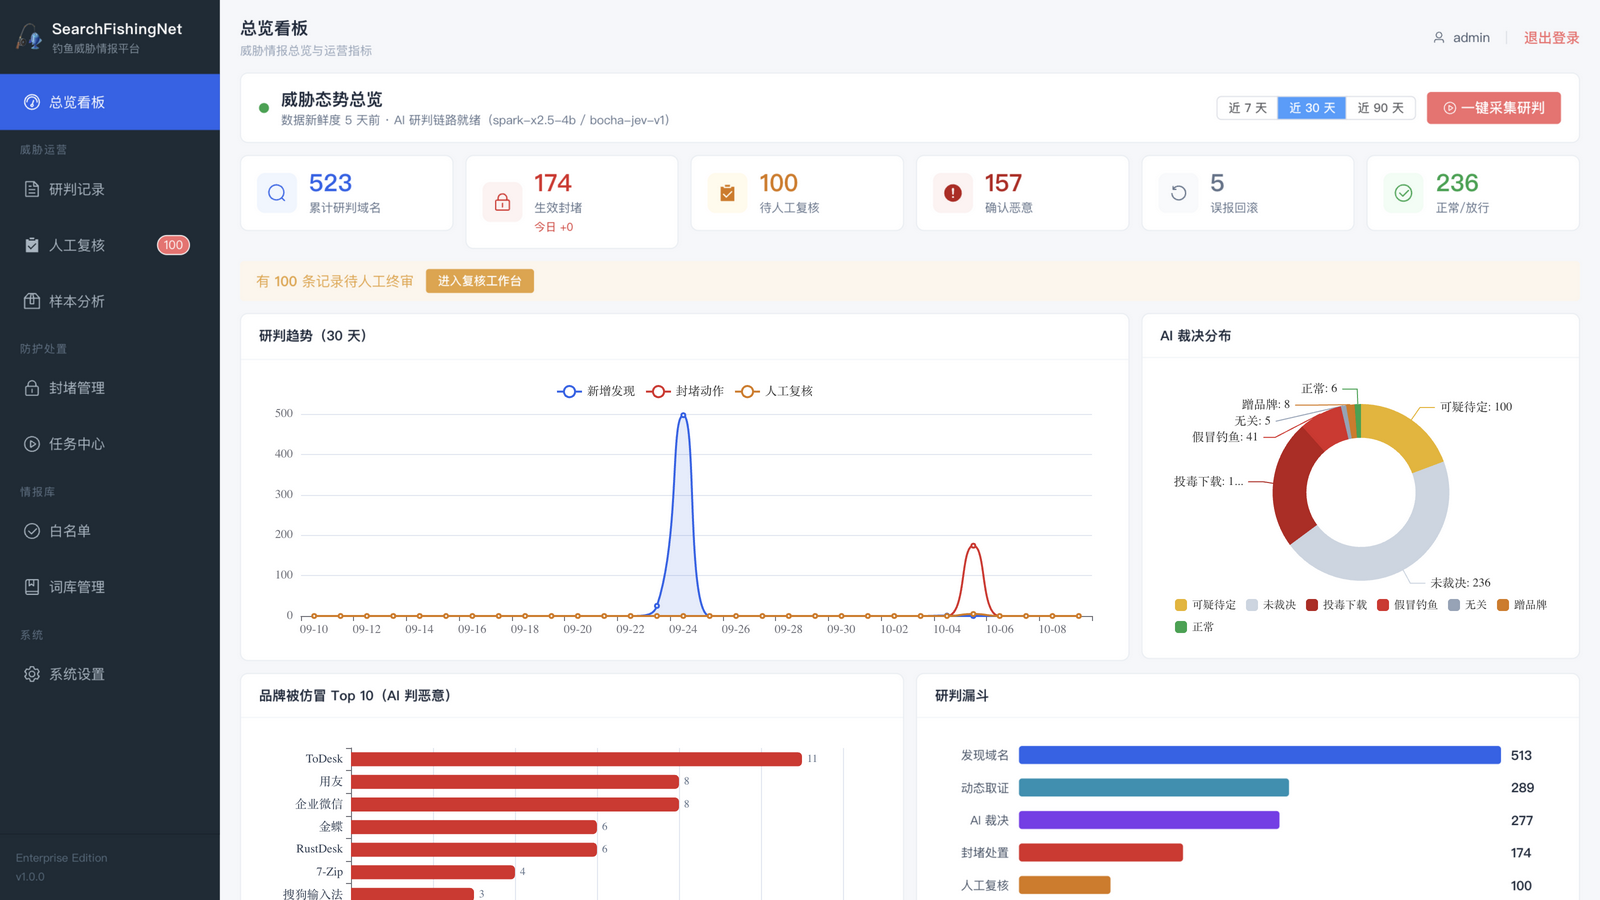
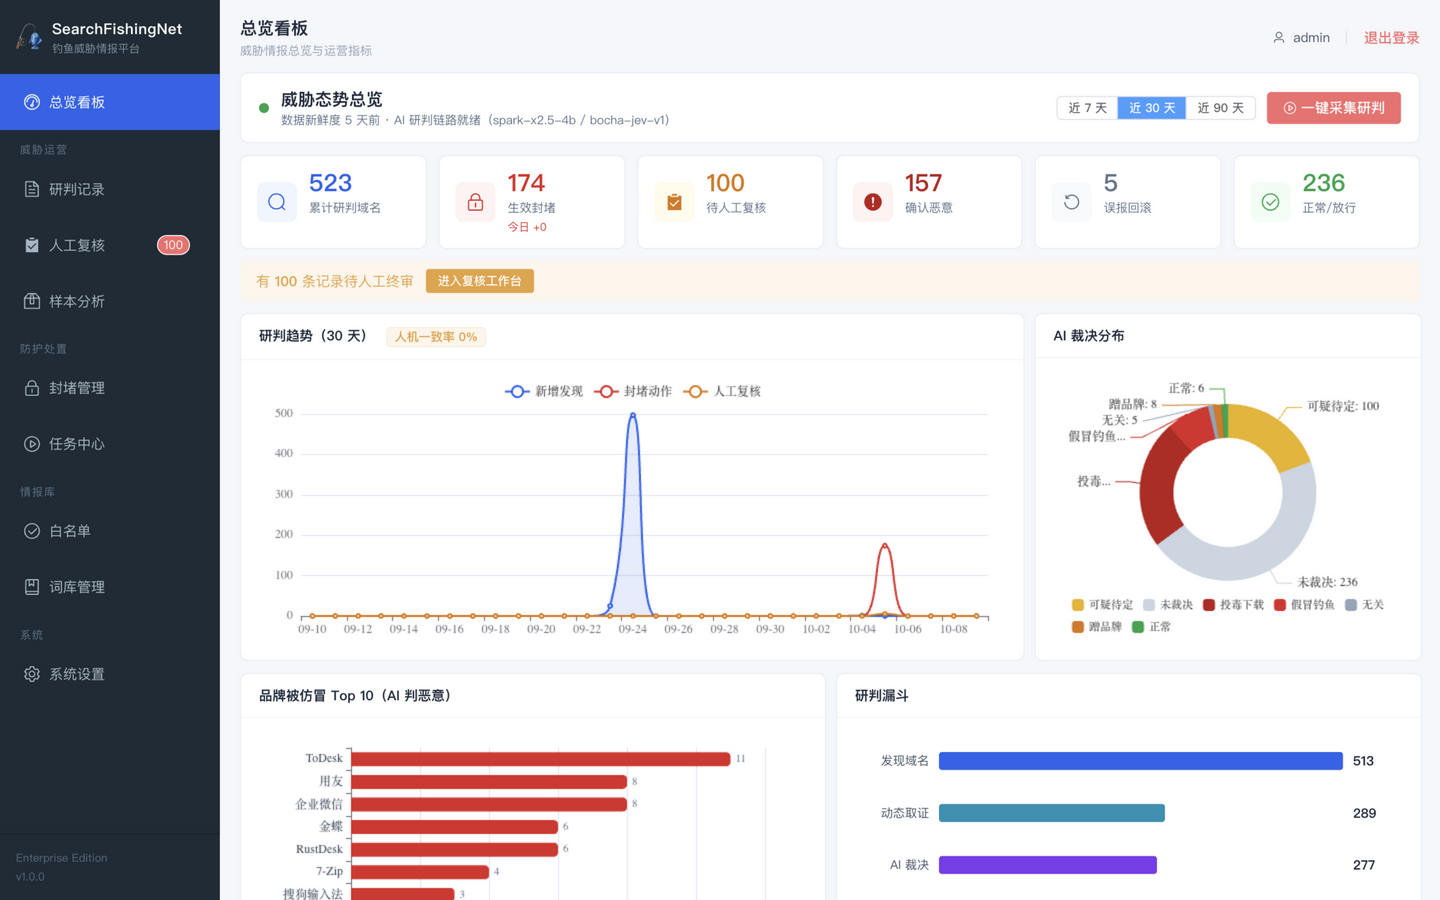
看板排版精修：同级卡片等高对齐（KPI 增量行恒占位/漏斗满高均布/健康卡拉伸填满/四行底部零偏差）

diff --git a/frontend/src/views/DashboardView.vue b/frontend/src/views/DashboardView.vue
@@ -41,9 +41,7 @@
             <div class="stat-main">
               <div class="stat-num" :style="{ color: card.color }">{{ card.value }}</div>
               <div class="stat-label">{{ card.label }}</div>
-              <div v-if="card.delta !== undefined" class="stat-delta" :class="card.deltaClass">
-                {{ card.delta }}
-              </div>
+              <div class="stat-delta" :class="card.deltaClass">{{ card.delta ?? '&nbsp;' }}</div>
             </div>
           </div>
         </el-card>
@@ -63,7 +61,7 @@
     </el-alert>
 
     <!-- 态势图组 -->
-    <el-row :gutter="12" class="block">
+    <el-row :gutter="12" class="block equal">
       <el-col :span="16">
         <el-card shadow="never">
           <template #header>
@@ -87,7 +85,7 @@
     </el-row>
 
     <!-- 品牌仿冒 Top + 研判漏斗 -->
-    <el-row :gutter="12" class="block">
+    <el-row :gutter="12" class="block equal">
       <el-col :span="12">
         <el-card shadow="never" header="品牌被仿冒 Top 10（AI 判恶意）">
           <div ref="brandEl" class="chart" />
@@ -95,7 +93,7 @@
       </el-col>
       <el-col :span="12">
         <el-card shadow="never" header="研判漏斗">
-          <div class="funnel">
+          <div class="funnel" :style="{ height: '260px' }">
             <div v-for="(s, i) in ov?.funnel ?? []" :key="s.stage" class="funnel-row">
               <div class="funnel-stage">{{ s.stage }}</div>
               <div class="funnel-bar-area">
@@ -110,7 +108,7 @@
     </el-row>
 
     <!-- 最近记录 + 系统健康 -->
-    <el-row :gutter="12">
+    <el-row :gutter="12" class="equal">
       <el-col :span="16">
         <el-card shadow="never" header="最近研判记录">
           <el-table :data="summary?.recent ?? []" size="small"
@@ -141,7 +139,7 @@
         </el-card>
       </el-col>
       <el-col :span="8">
-        <el-card shadow="never" header="系统健康">
+        <el-card shadow="never" header="系统健康" class="health-fill">
           <el-descriptions :column="1" size="small" border class="block">
             <el-descriptions-item label="AI 严判链路">
               <el-tag :type="ov?.health.ai_configured ? 'success' : 'danger'" size="small">
@@ -409,13 +407,19 @@ onBeforeUnmount(() => {
 .alert-row { display: flex; align-items: center; justify-content: space-between; gap: 12px; }
 .block { margin-top: 12px; }
 .chart { height: 260px; }
-.funnel { padding: 8px 4px 2px; }
+.funnel { padding: 4px 4px 0; display: flex; flex-direction: column; justify-content: space-around; }
 .funnel-row { display: flex; align-items: center; gap: 10px; margin-bottom: 14px; }
 .funnel-stage { width: 68px; font-size: 12px; color: #475569; text-align: right; flex: none; }
 .funnel-bar-area { flex: 1; min-width: 0; }
 .funnel-bar { height: 18px; border-radius: 3px; min-width: 22px; transition: width .4s ease; }
 .funnel-num { width: 44px; font-size: 13px; font-weight: 600; color: #1e293b; flex: none; }
 .funnel-hint { margin-top: 6px; }
+.equal { display: flex; flex-wrap: wrap; }
+.equal > .el-col { display: flex; flex-direction: column; }
+.equal > .el-col > .el-card { flex: 1; display: flex; flex-direction: column; width: 100%; }
+.equal > .el-col > .el-card > :deep(.el-card__body) { flex: 1; display: flex; flex-direction: column; }
+.health-fill { flex: 1; display: flex; flex-direction: column; }
+.health-fill > :deep(.el-card__body) { flex: 1; }
 .kw-wrap { display: flex; flex-wrap: wrap; gap: 8px; }
 .kw { margin: 0; }
 </style>
